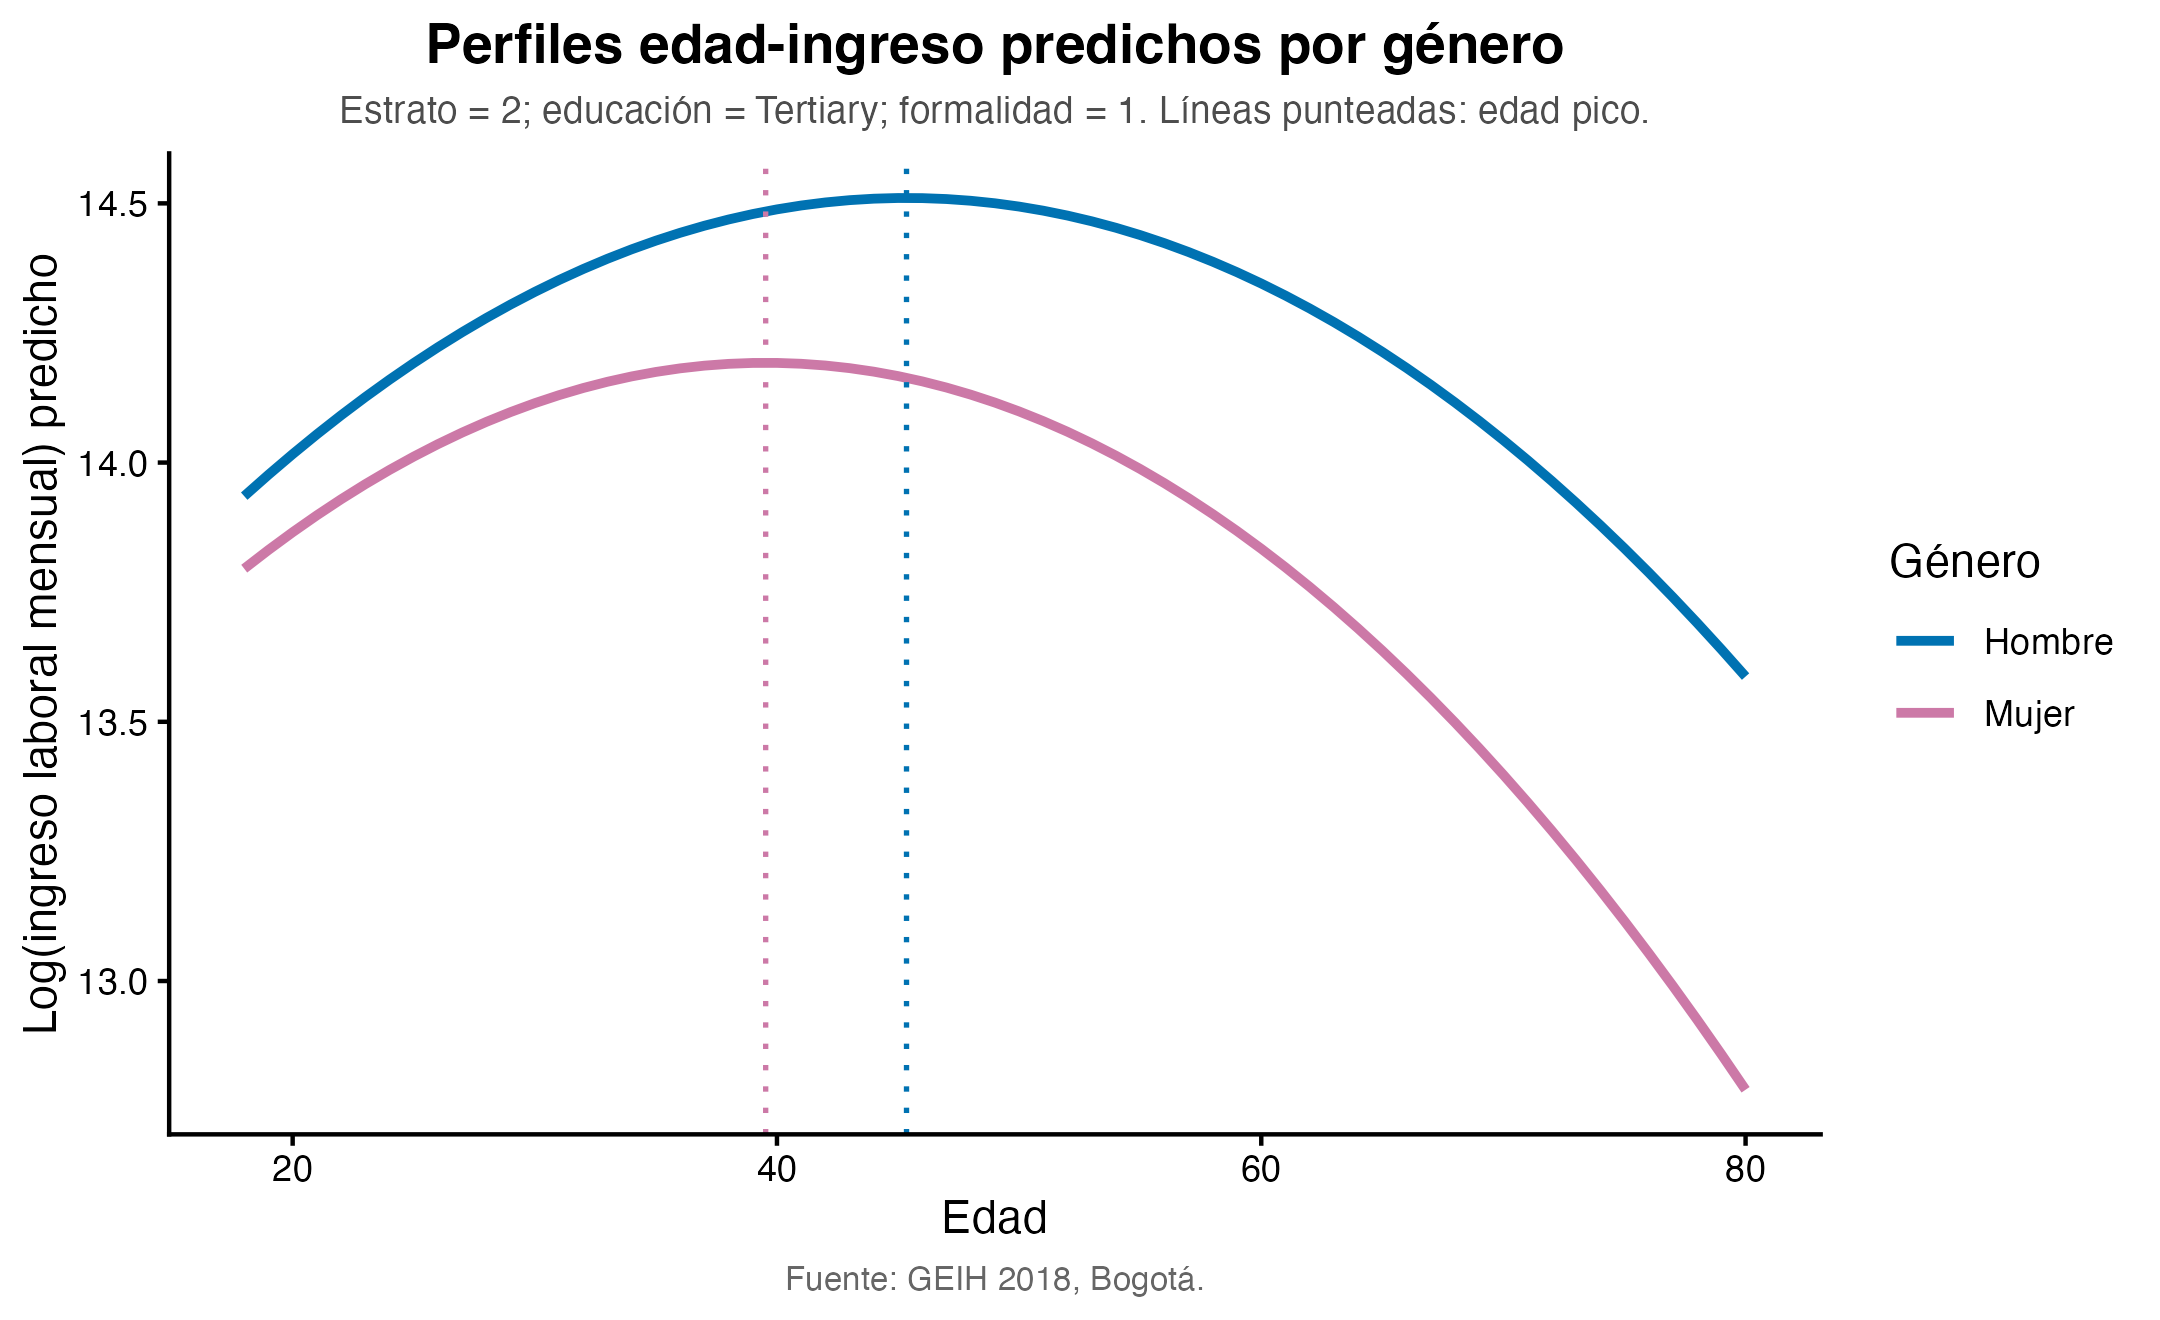
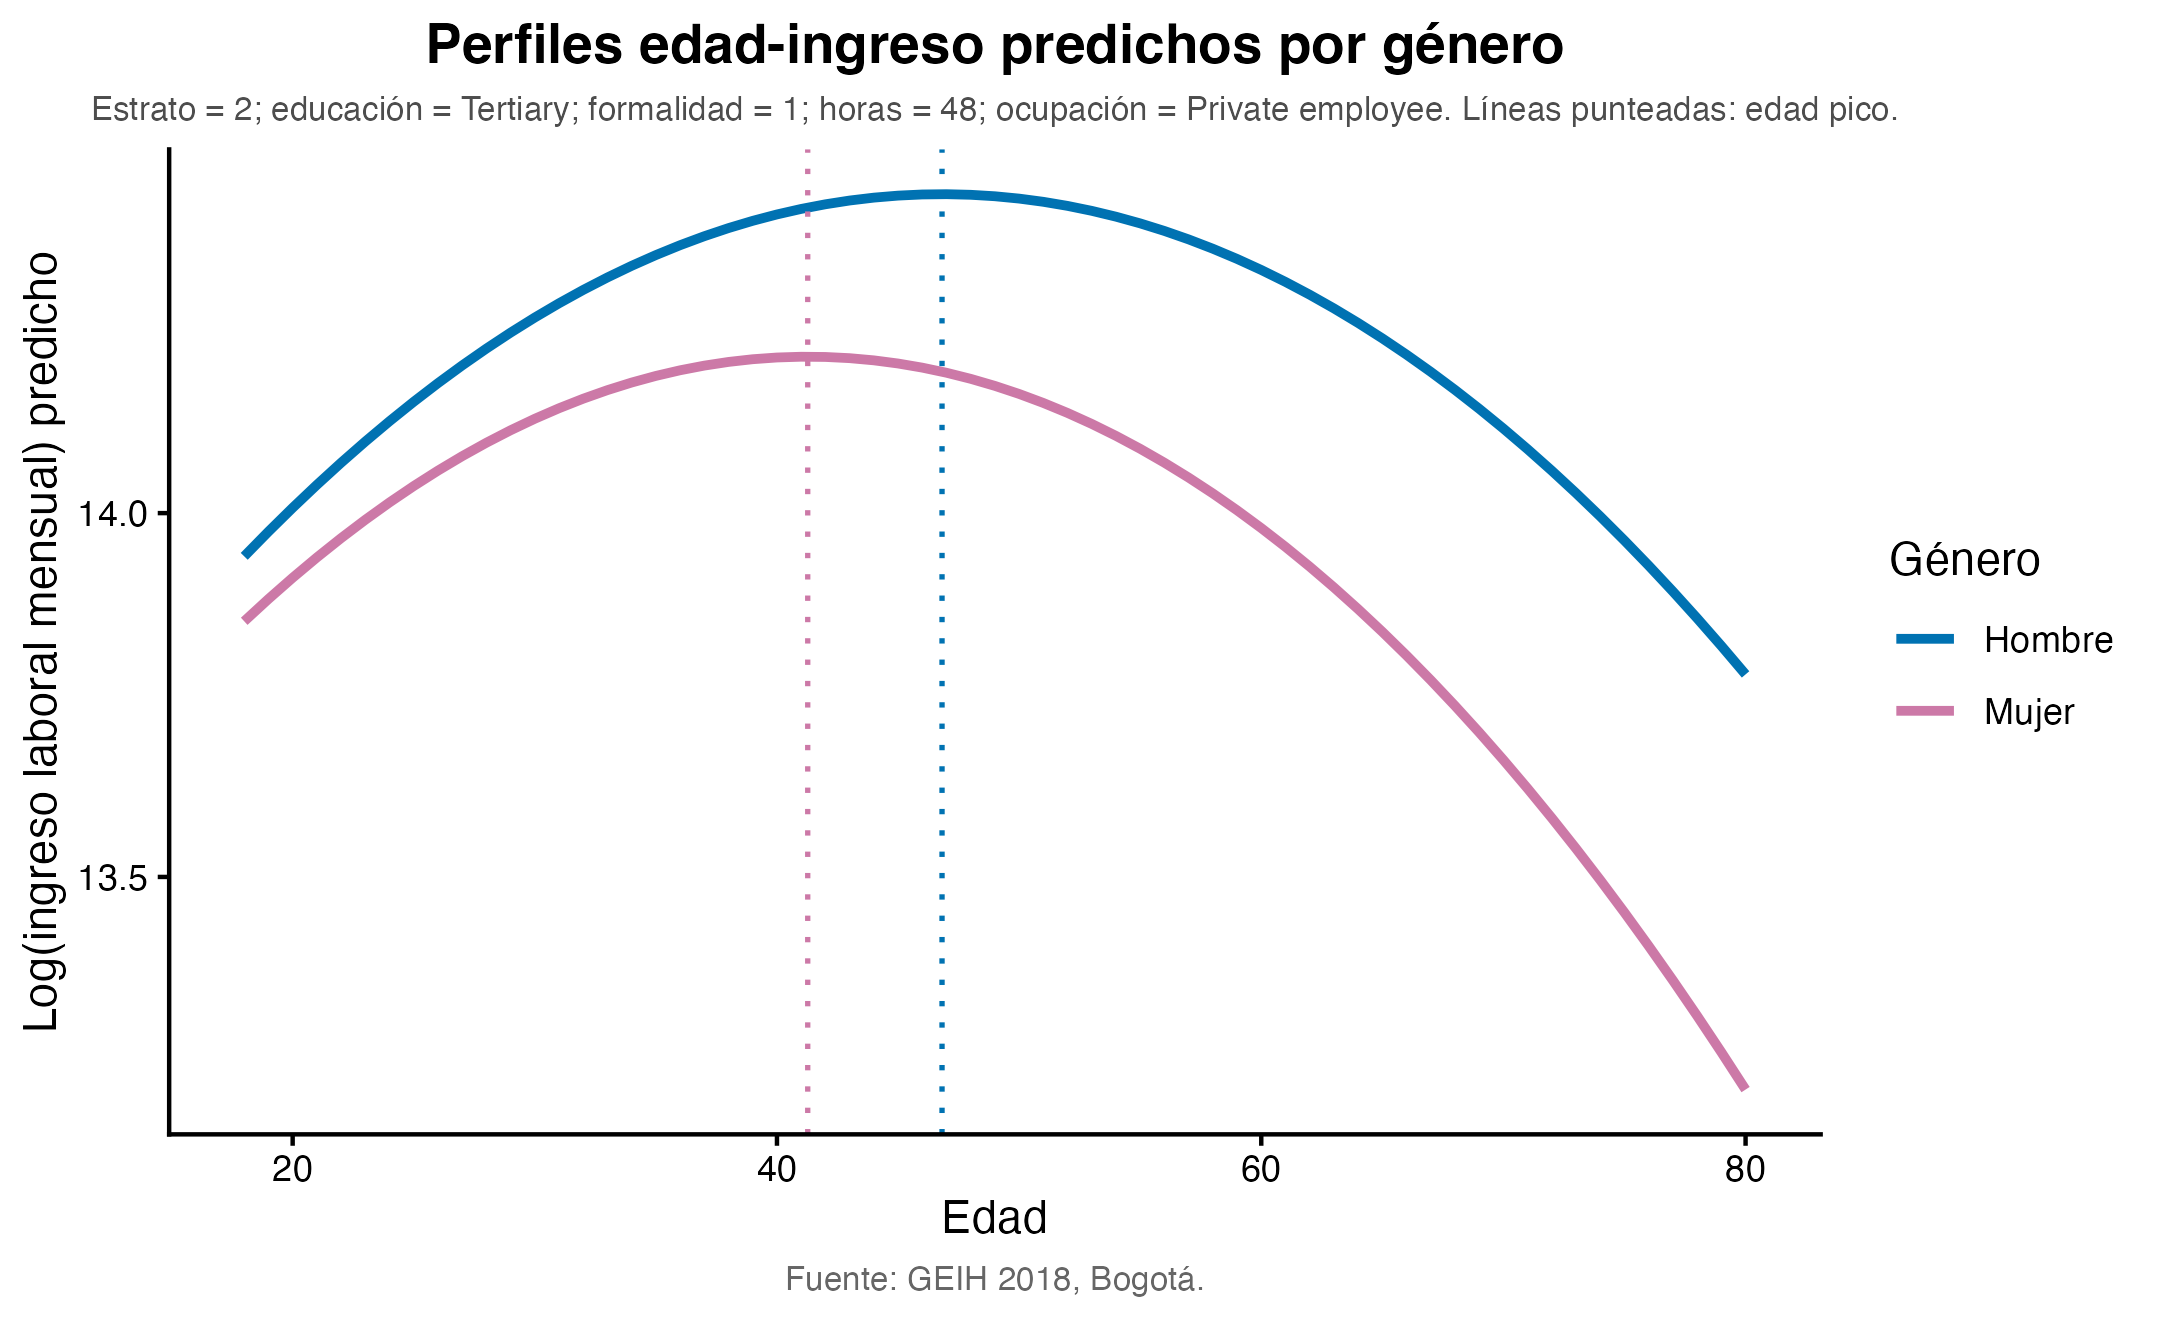
Actualización sección 2

diff --git a/02_outputs/tables/tab_gender_gap.tex b/02_outputs/tables/tab_gender_gap.tex
@@ -6,7 +6,7 @@ M1: Incondicional & -0.238 & 0.015 & 0.015 & -21.2 & 0.018 & 14,761 \\
 M2: + Edad & -0.257 & 0.014 & 0.015 & -22.7 & 0.070 & 14,761 \\
 M3: + Estrato & -0.287 & 0.013 & 0.013 & -24.9 & 0.267 & 14,761 \\
 M4: + Educación & -0.320 & 0.012 & 0.013 & -27.4 & 0.346 & 14,761 \\
-M5: + Formalidad (preferida) & -0.301 & 0.011 & 0.012 & -26.0 & 0.445 & 14,761 \\
-M6: + Horas/Ocupación & -0.199 & 0.011 & 0.011 & -18.1 & 0.535 & 14,761 \\
+M5: + Formalidad & -0.301 & 0.011 & 0.012 & -26.0 & 0.445 & 14,761 \\
+M6: + Horas/Ocupación (preferida) & -0.199 & 0.011 & 0.011 & -18.1 & 0.535 & 14,761 \\
 \bottomrule
 \end{tabular}

diff --git a/02_outputs/tables/tab_fwl_check.tex b/02_outputs/tables/tab_fwl_check.tex
@@ -2,6 +2,6 @@
 \toprule
 OLS female coefficient & FWL coefficient & Analytical SE & FWL bootstrap SE & Absolute difference \\
 \midrule
--0.218083 & -0.218083 & 0.0120 & 0.0120 & 0.00000000 \\
+-0.199116 & -0.199116 & 0.011 & 0.011 & 0.00000000 \\
 \bottomrule
 \end{tabular}
